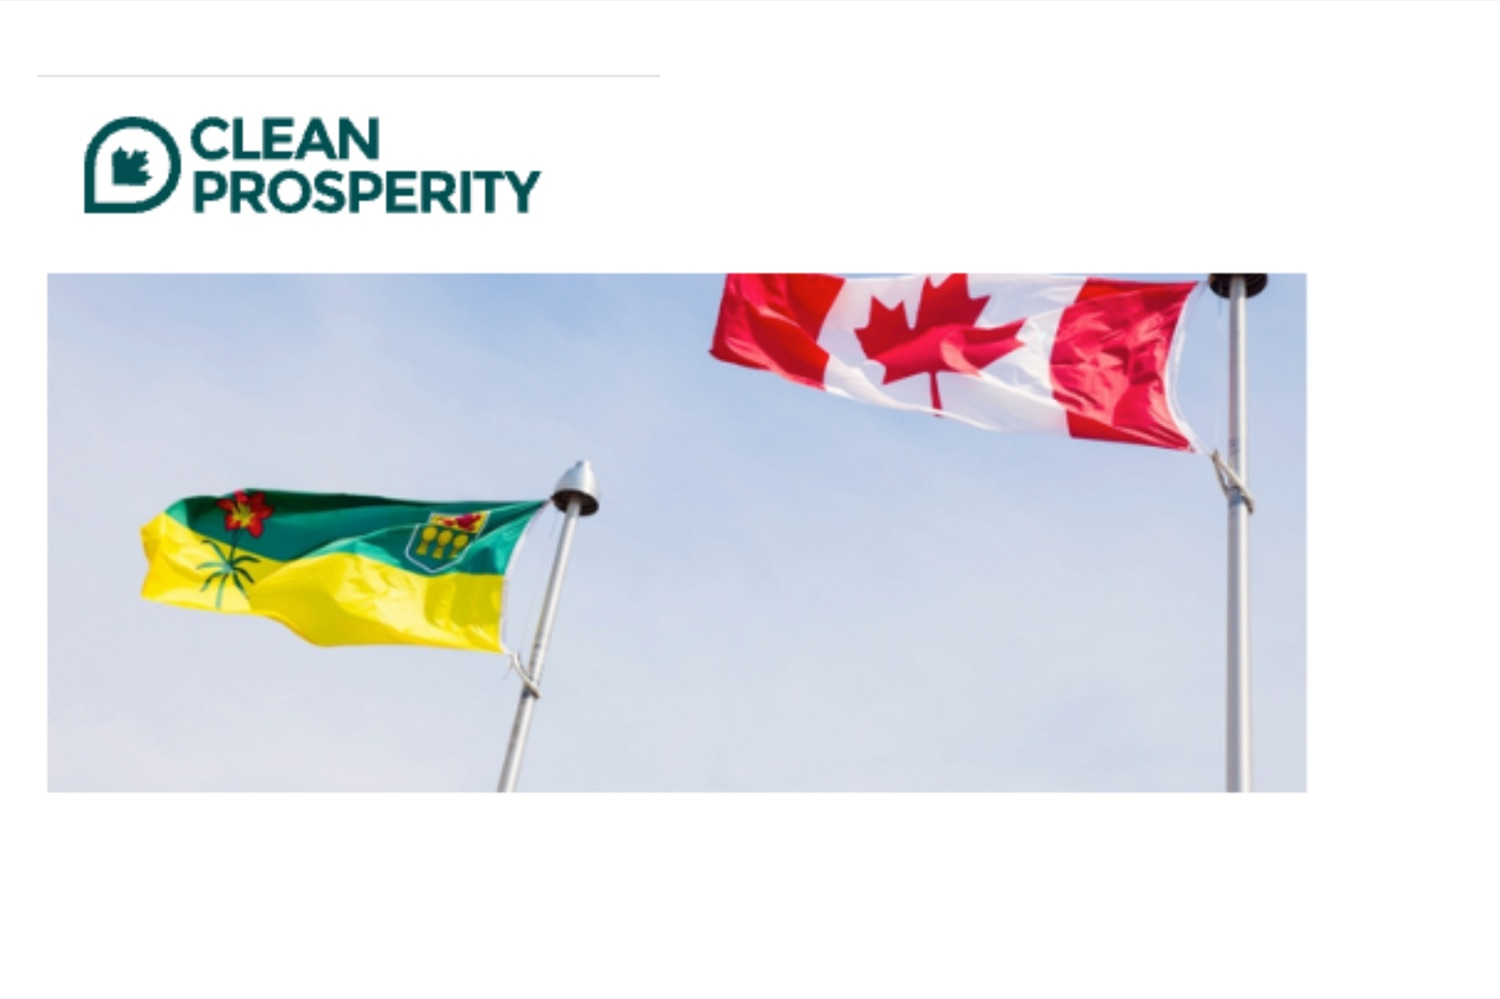
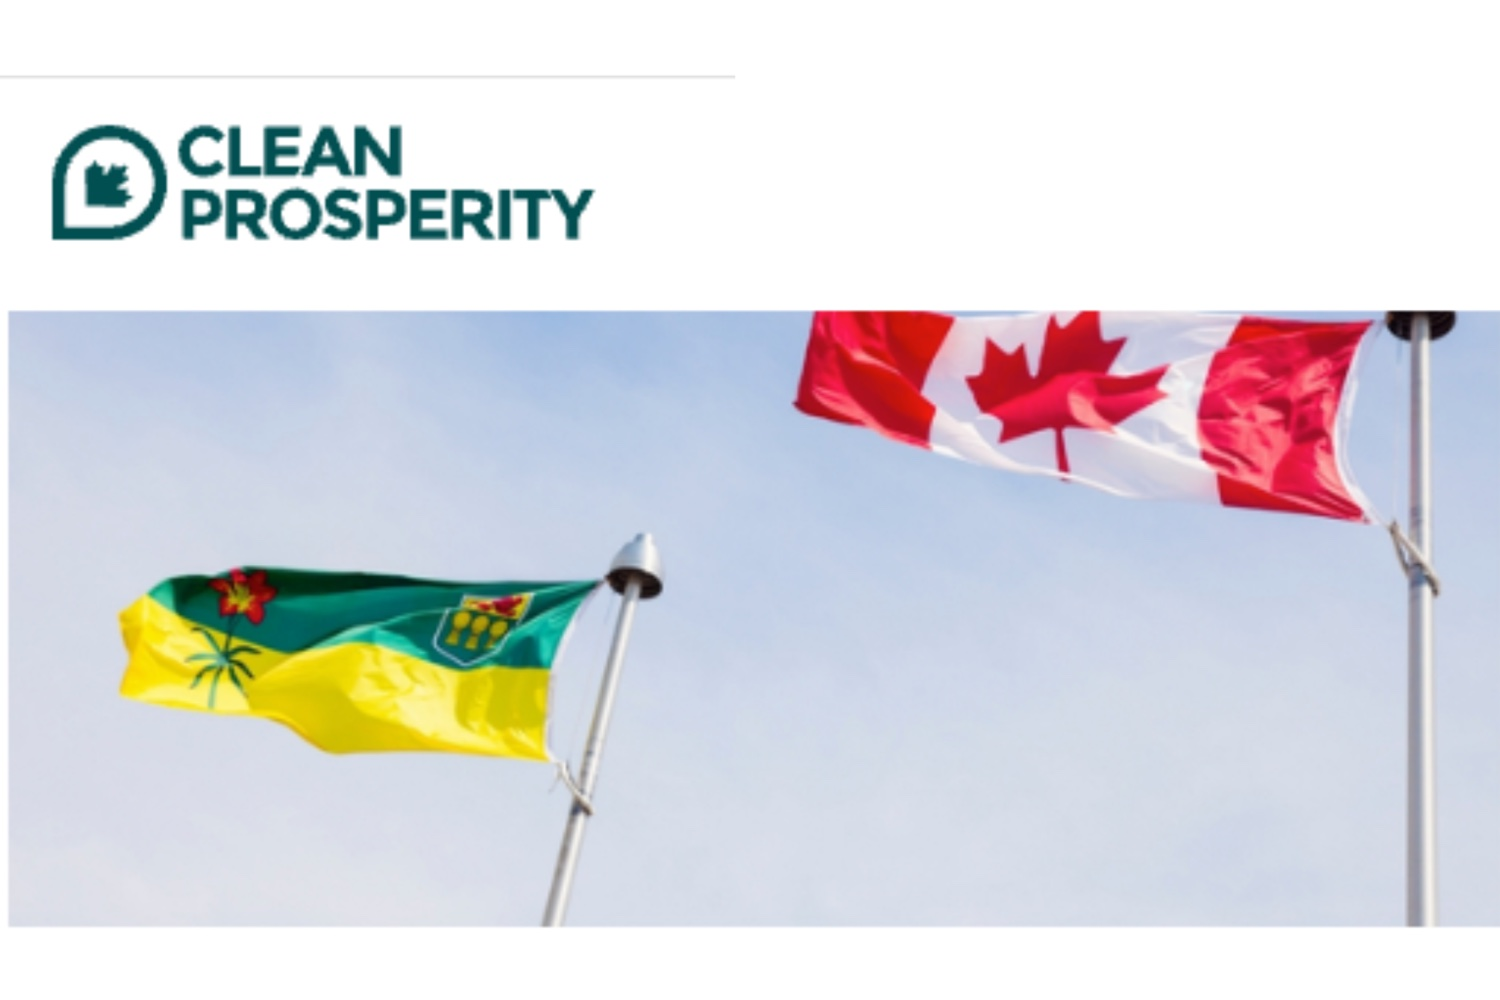
corporate: reorder the interties lockup and tighten the Saskatchewan image
Electricity Canada now sits above Open Insights in the interties card
lockup, with alt text updated to match.

The Saskatchewan image is cropped to its content, dropping the white
band along the bottom and right edge so the flags photograph and the
Clean Prosperity mark fill the frame. Still 1500x1000, so both card
images keep the same 3:2 ratio and render at the same height.

diff --git a/corporate/js/research.js b/corporate/js/research.js
@@ -39,7 +39,7 @@ const RESEARCH_ITEMS = [
     partnerUrl: 'https://www.electricity.ca/',
     title: 'Reliability, extreme weather and interties',
     image: 'assets/research/open-insights-electricity-canada.jpg',
-    imageAlt: 'The report cover, showing transmission towers at sunset, beside the stacked Open Insights and Electricity Canada logos.',
+    imageAlt: 'The report cover, showing transmission towers at sunset, beside the Electricity Canada logo above the Open Insights logo.',
     summary: 'This report from Electricity Canada and the Open Insights initiative, led by researchers at the University of Victoria, examines how expanded interprovincial electricity connections can strengthen Canada\u2019s grid against extreme weather. Modelling shows that greater interconnection can reduce outage risks, improve resilience, lower system costs and make better use of diverse generation resources, demonstrating the value of greater provincial cooperation in building Canada\u2019s future electricity system.',
     reportUrl: 'https://www.electricity.ca/publications/building-grid-resilience-through-interprovincial-interties/',
     modelUrl: '',
